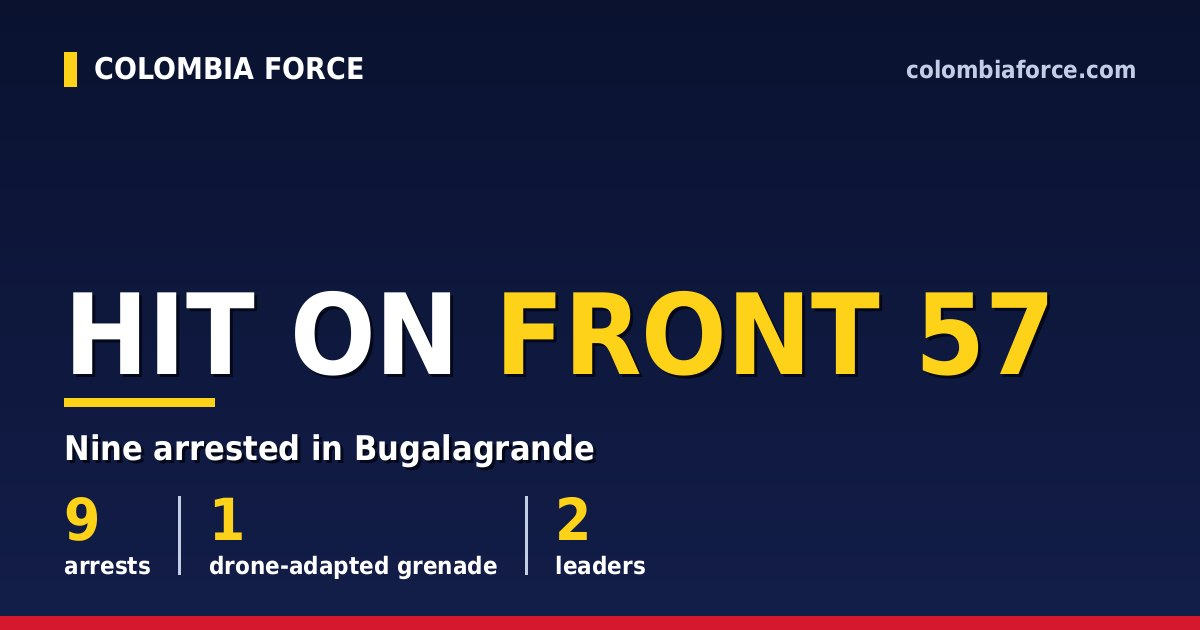
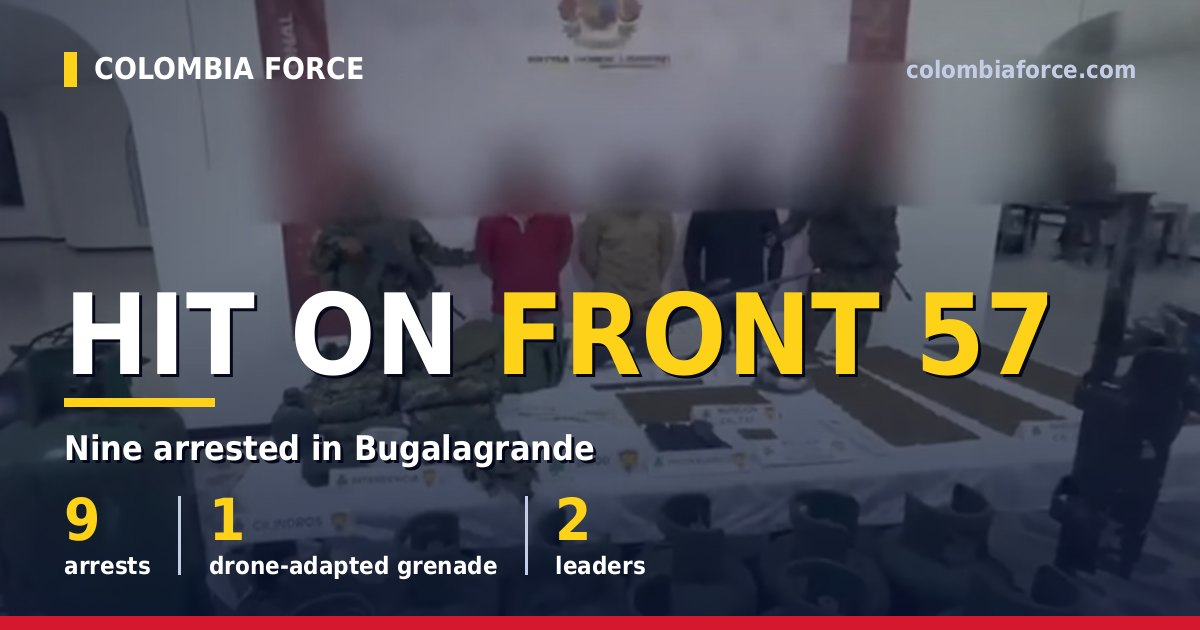
Nota publicada desde el issue #13

diff --git a/src/content/blog/es/captura-bugalagrande-frente-57-valle.md b/src/content/blog/es/captura-bugalagrande-frente-57-valle.md
@@ -1,0 +1,21 @@
+---
+title: "Capturan a nueve presuntos integrantes del Frente 57 en Bugalagrande, Valle del Cauca"
+description: "La Policía, en coordinación con el Ejército, la Fuerza Aérea y la Fiscalía, capturó a nueve presuntos disidentes de las FARC, entre ellos un cabecilla buscado también en Nariño."
+pubDate: 2026-10-15
+category: capturados
+departments: ["VALLE DEL CAUCA"]
+heroImage: "/images/captura-bugalagrande-frente-57-valle-es.jpg"
+imageAlt: "Portada: Golpe al FRENTE 57"
+---
+
+La Policía Nacional, en coordinación con el Ejército, la Fuerza Aérea y la Fiscalía, capturó en Bugalagrande, Valle del Cauca, a nueve presuntos integrantes del Frente 57 "Yair Bermúdez", facción disidente de las antiguas FARC-EP adscrita a la Coordinadora Nacional Ejército Bolivariano.
+
+Entre los capturados están alias "Majiño", señalado como cabecilla de una comisión de la estructura en el Valle del Cauca e incluido también en el cartel de los más buscados del departamento de Nariño, y alias "Bastidas".
+
+En el operativo fueron incautados 12 celulares, un computador portátil, nueve contenedores con pólvora negra y una granada de mortero artesanal, adaptada para ser lanzada con dron.
+
+*Las cifras y afirmaciones son las reportadas por las fuentes oficiales y no han sido verificadas de forma independiente. Las personas capturadas o señaladas se consideran presuntas responsables hasta que un juez decida lo contrario.*
+
+**Fuente:** [Cuenta oficial de X del presidente Abelardo De La Espriella](https://www.infobae.com/colombia/2026/10/15/de-la-espriella-confirmo-la-captura-en-bugalagrande-de-nueve-presuntos-miembros-del-frente-57-yair-bermudez-e-incautaron-una-granada-adaptada-para-dron/).
+
+**Imagen:** Policía Nacional.

diff --git a/src/content/blog/en/captura-bugalagrande-frente-57-valle.md b/src/content/blog/en/captura-bugalagrande-frente-57-valle.md
@@ -1,0 +1,22 @@
+---
+title: "Nine alleged Front 57 members arrested in Bugalagrande, Valle del Cauca"
+description: "Police, working with the Army, Air Force and Attorney General's Office, arrested nine alleged FARC dissidents, including a leader also wanted in Nariño."
+pubDate: 2026-10-15
+category: capturados
+departments: ["VALLE DEL CAUCA"]
+heroImage: "/images/captura-bugalagrande-frente-57-valle-en.jpg"
+imageAlt: "Cover: Hit on FRONT 57"
+urlSlug: "bugalagrande-arrest-front-57-valle"
+---
+
+The National Police, working with the Army, Air Force and Attorney General's Office, arrested nine alleged members of Front 57 "Yair Bermúdez," a FARC dissident faction aligned with the Coordinadora Nacional Ejército Bolivariano, in Bugalagrande, Valle del Cauca.
+
+Among those arrested were alias "Majiño," identified as the leader of a local cell and also listed on Nariño department's most-wanted list, and alias "Bastidas."
+
+The operation seized 12 cell phones, a laptop, nine containers of black powder, and a homemade mortar grenade adapted for drone delivery.
+
+*Figures and claims are those reported by official sources and have not been independently verified. People who have been arrested or named are presumed innocent until a judge rules otherwise.*
+
+**Source:** [President Abelardo De La Espriella's official X account](https://www.infobae.com/colombia/2026/10/15/de-la-espriella-confirmo-la-captura-en-bugalagrande-de-nueve-presuntos-miembros-del-frente-57-yair-bermudez-e-incautaron-una-granada-adaptada-para-dron/).
+
+**Image:** Policía Nacional.
